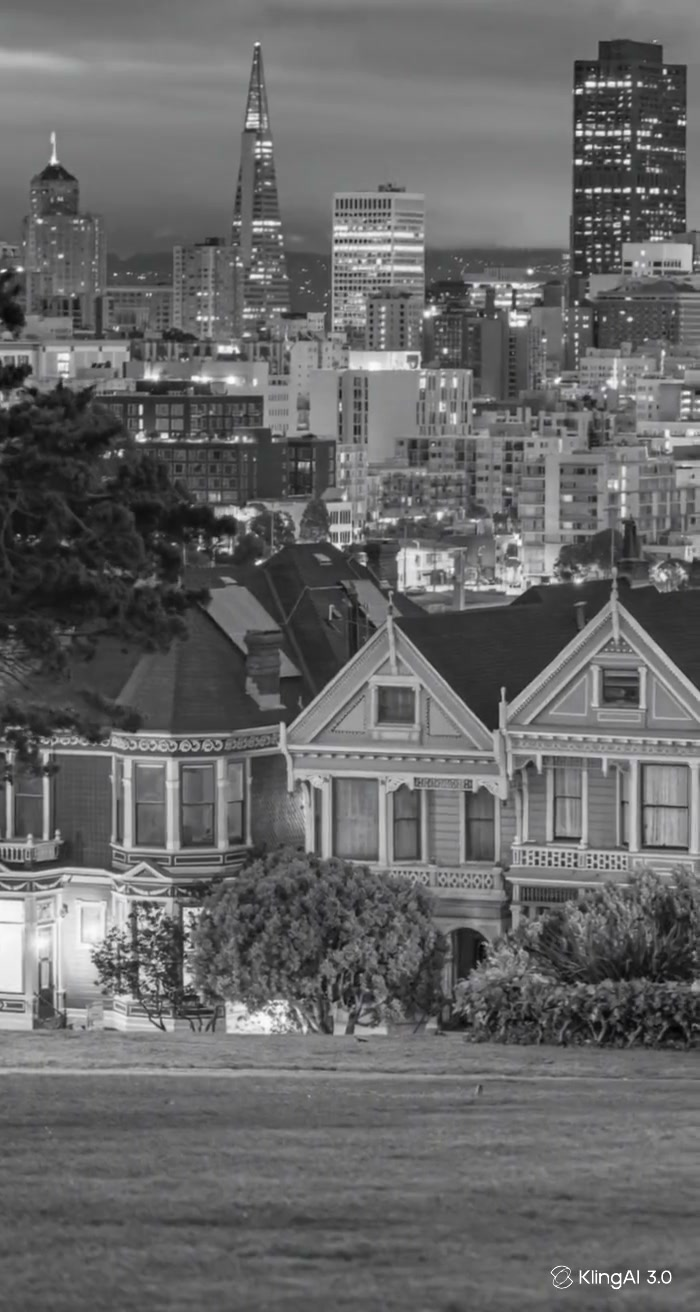
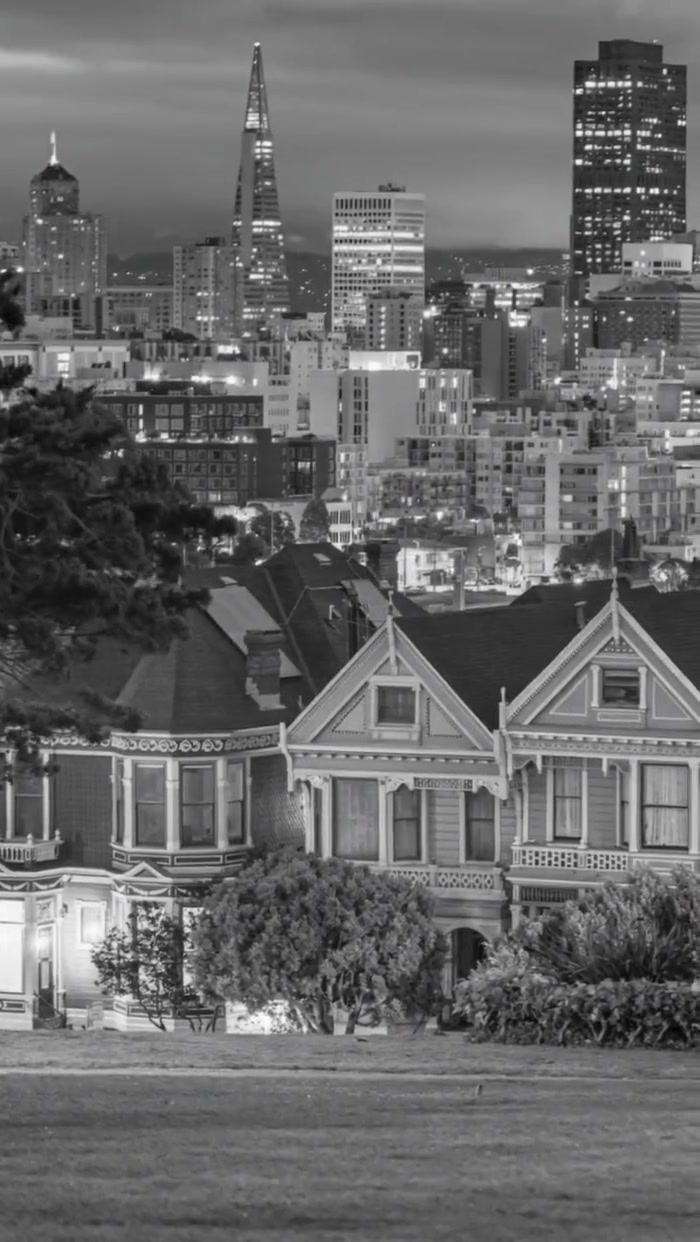
Sprint C.S.2.0.3 — Hero metrics + watermark removal
Hero metrics
- $2B+ Property value insured → $5B+
- 500+ Properties covered → 1,000+
- <10 min Avg response time (unchanged)

Mobile hero video
- Re-encoded hero-mobile.mp4 / .webm with the bottom 70px cropped
  off, removing the "KlingAI 3.0" watermark that sat in the
  bottom-right corner. Source frame was 700×1312; output is 700×1242.
  The cropped strip was just grass field — no narrative loss, and
  the .cs-hero__video uses object-fit: cover so the aspect-ratio
  shift (0.534 → 0.564) is invisible in the rendered hero.
- Regenerated hero-mobile-poster.jpg from the cropped MP4 at 1s.
- Encoder settings unchanged from C.S.1.10.1:
    mp4: H.264, CRF 28, 24fps, no audio, +faststart   (821 KB)
    webm: VP9, CRF 35, no audio                       (1.06 MB)

diff --git a/src/components/Hero.tsx b/src/components/Hero.tsx
@@ -32,8 +32,8 @@ const BODY_COPY =
   "Tell us what you own. Carbon turns the conversation into a clean property submission and connects you with real coverage options from a specialist.";
 
 const METRICS: Array<{ value: string; label: string }> = [
-  { value: "$2B+", label: "Property value insured" },
-  { value: "500+", label: "Properties covered" },
+  { value: "$5B+", label: "Property value insured" },
+  { value: "1,000+", label: "Properties covered" },
   { value: "<10 min", label: "Avg response time" },
 ];
 